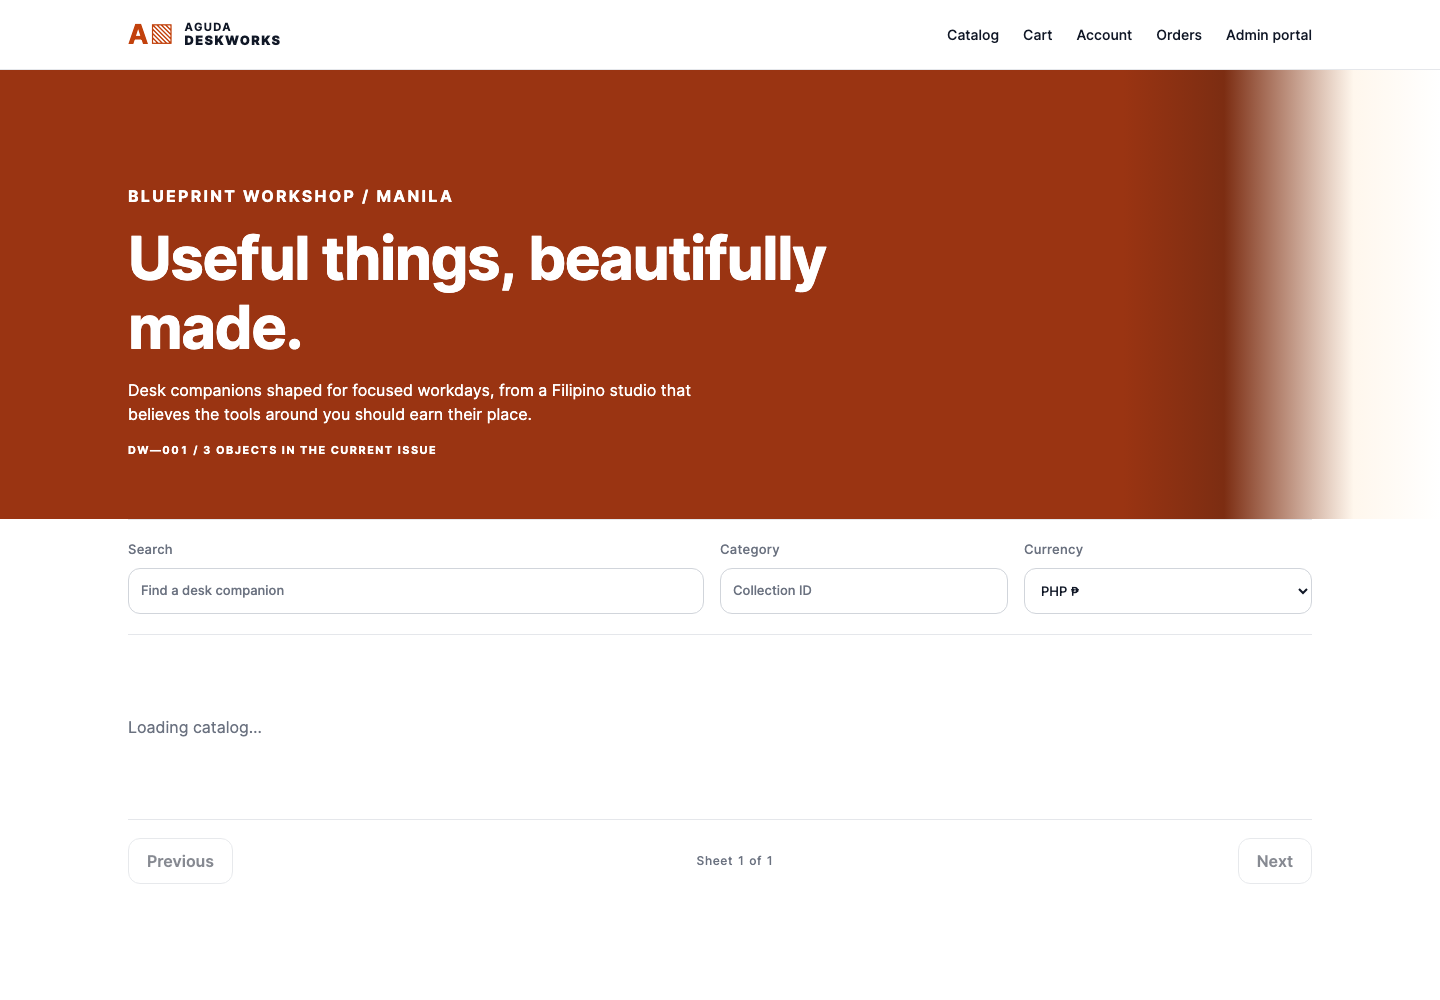
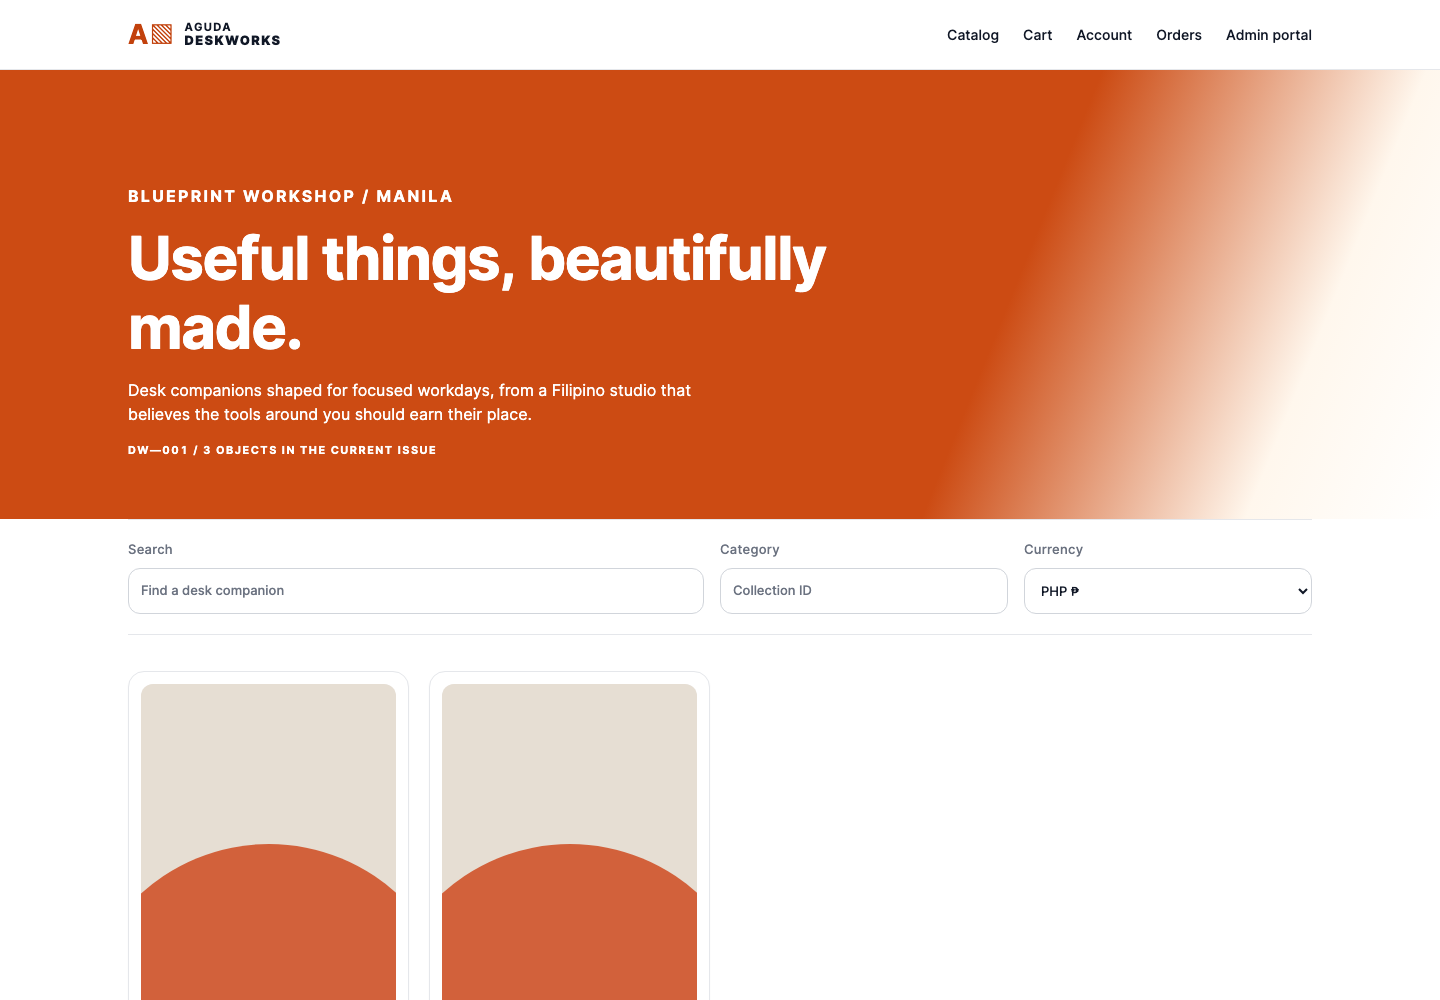
style: refine storefront hero gradient

diff --git a/apps/storefront/src/app/globals.css b/apps/storefront/src/app/globals.css
@@ -1,4 +1,4 @@
-/* style-10032026-Maurice: sample-aligned visual language with Inter, a dark orange hero system, white canvas, 4px spacing logic, rounded cards, restrained elevation, and 200ms interaction motion; structure and behavior are unchanged. */
+/* style-10032026-Maurice: sample-aligned visual language with Inter, a light orange diagonal hero system, white canvas, 4px spacing logic, rounded cards, restrained elevation, and 200ms interaction motion; structure and behavior are unchanged. */
 @font-face {
   font-family: "Inter";
   src: url("/fonts/inter-latin-wght-normal.woff2") format("woff2");
@@ -58,7 +58,7 @@ button:disabled { cursor: not-allowed; opacity: .5; }
 .site-footer { max-width: 1240px; margin: 48px auto 0; padding: 22px 28px 34px; border-top: 1px solid var(--line); display: flex; justify-content: space-between; color: var(--muted); font-size: .7rem; font-weight: 600; letter-spacing: .08em; }
 
 .catalog-shell, .detail-shell, .account-shell { max-width: 1240px; margin: auto; padding: 44px 28px 80px; }
-.catalog-header { width: 100vw; max-width: none; margin: -44px 0 0 calc(50% - 50vw); padding: 98px max(28px, calc((100vw - 1184px) / 2)) 50px; background: linear-gradient(90deg, #9a3412 0%, #9a3412 78%, #7c2d12 85%, #fff7ed 94%, #ffffff 100%); color: #ffffff; }
+.catalog-header { width: 100vw; max-width: none; margin: -44px 0 0 calc(50% - 50vw); padding: 98px max(28px, calc((100vw - 1184px) / 2)) 50px; background: linear-gradient(112deg, #cc4b13 0%, #cc4b13 68%, #fff7ed 88%, #ffffff 100%); color: #ffffff; }
 .catalog-header .eyebrow, .catalog-header .annotation { color: #ffffff; }
 .eyebrow, .annotation { color: var(--primary); font-size: .6875rem; font-weight: 700; letter-spacing: .14em; text-transform: uppercase; }
 .catalog-header p { color: #ffffff; font-size: 1rem; max-width: 620px; }
@@ -114,7 +114,7 @@ fieldset { border: 1px solid var(--line); border-radius: 12px; padding: 16px; di
   .site-nav.is-open { display: flex; width: 100%; padding: 4px 0 0; flex-wrap: wrap; gap: 8px 18px; }
   .site-nav a { padding: 6px 0; font-size: .86rem; }
   .catalog-shell, .detail-shell, .account-shell { padding: 28px 16px 56px; }
-  .catalog-header { margin-top: -28px; padding: 70px 16px 32px; background: linear-gradient(90deg, #9a3412 0%, #9a3412 84%, #7c2d12 92%, #fff7ed 98%, #ffffff 100%); }
+  .catalog-header { margin-top: -28px; padding: 70px 16px 32px; background: linear-gradient(112deg, #cc4b13 0%, #cc4b13 72%, #fff7ed 91%, #ffffff 100%); }
   .catalog-header p { font-size: .9375rem; }
   .catalog-controls, .product-grid, .detail { grid-template-columns: 1fr; }
   .catalog-controls { gap: 12px; }
